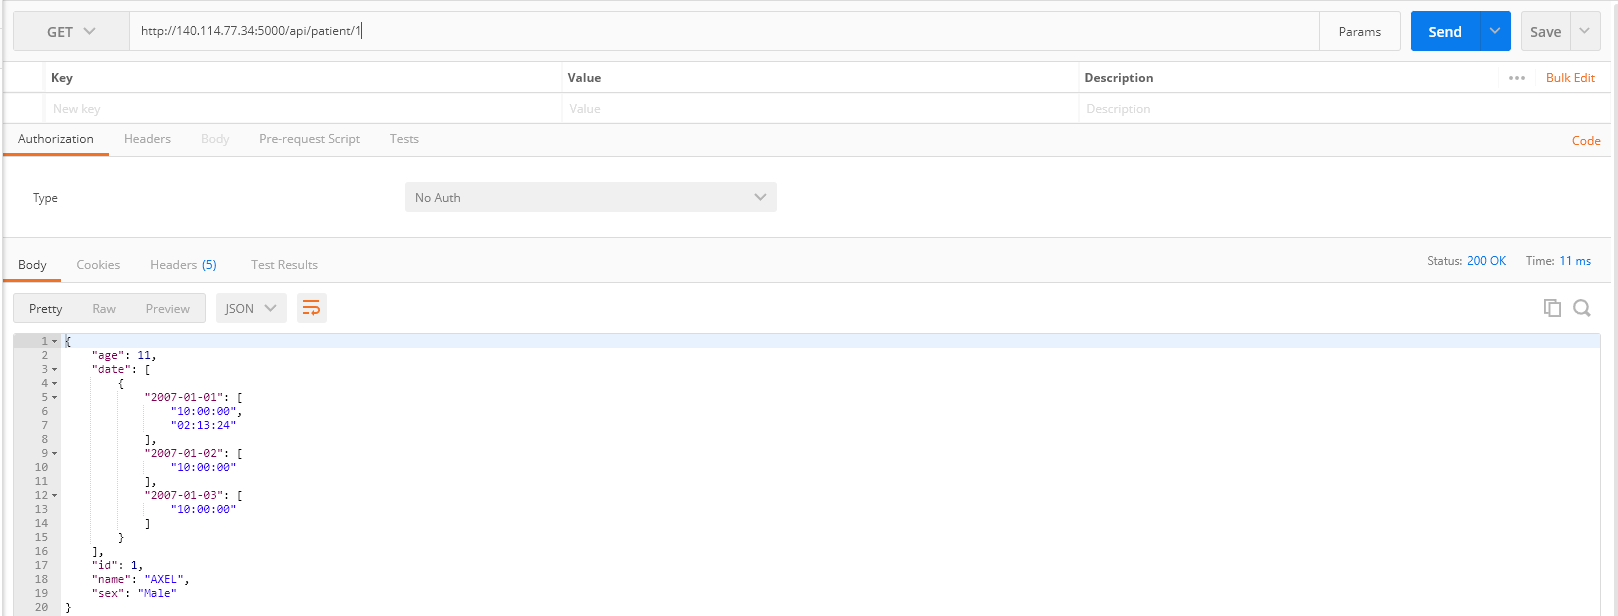
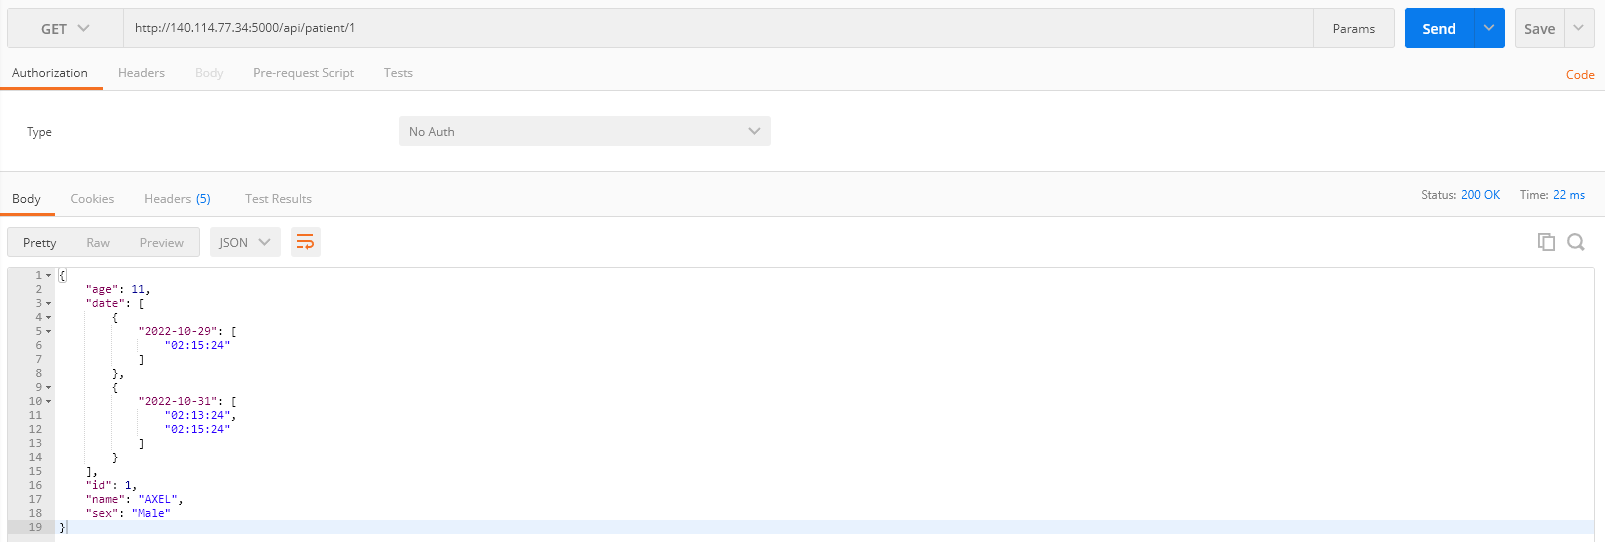
update API2

diff --git a/parse.py b/parse.py
@@ -13,22 +13,39 @@ def parse_patient_list(patient_rows):
     return patient_list
 
 
-def parse_patient(patient_rows):
+# def parse_patient(patient_rows):
+#     patient = {}
+#     patient['id'] = patient_rows[0][0]
+#     patient['name'] = patient_rows[0][1]
+#     patient['sex'] = patient_rows[0][2]
+#     patient['age'] = age(patient_rows[0][3])
+#     date_list = []
+#     temp = {}
+#     for row in patient_rows:
+#         date = row[4].split(' ')[0]
+#         if date not in temp.keys():
+#             temp[date] = []
+#         time = row[4].split(' ')[1]
+#         temp[date].append(time)
+#     date_list.append(temp)
+#     patient['date'] = date_list
+#     return patient
+
+def parse_patient(patient_rows, date_list):
     patient = {}
     patient['id'] = patient_rows[0][0]
     patient['name'] = patient_rows[0][1]
     patient['sex'] = patient_rows[0][2]
     patient['age'] = age(patient_rows[0][3])
-    date_list = []
-    temp = {}
+    date_value = []
+    for date in date_list:
+        temp = {"{}".format(date): []}
+        date_value.append(temp)
     for row in patient_rows:
         date = row[4].split(' ')[0]
-        if date not in temp.keys():
-            temp[date] = []
         time = row[4].split(' ')[1]
-        temp[date].append(time)
-    date_list.append(temp)
-    patient['date'] = date_list
+        date_value[date_list.index(date)][date].append(time)
+    patient['date'] = date_value
     return patient
 
 

diff --git a/connectdb.py b/connectdb.py
@@ -1,5 +1,7 @@
 import sqlite3
 
+from cv2 import sort
+
 
 class Database:
     def __init__(self):
@@ -23,6 +25,16 @@ class Database:
         for row in rows:
             print(row)
         return rows
+
+    def sql_fetch_distinct_date(self, patient_id):
+        date_list = []
+        self.cursorObj.execute(
+            'SELECT distinct(date(Date)) FROM Image WHERE PatientID={} ORDER BY Date;'.format(patient_id))
+        rows = self.cursorObj.fetchall()
+        self.con.commit()
+        for row in rows:
+            date_list.append(row[0])
+        return date_list
 
     def sql_fetch_images(self, patient_id, date, time):
         print(patient_id, date, time)

diff --git a/backend.py b/backend.py
@@ -28,7 +28,8 @@ def get_patient_list():
 def get_patient(id):
     patient_id = id
     patient_rows = db.sql_fetch_patient(patient_id)
-    patient_data = parse_patient(patient_rows)
+    date_list = db.sql_fetch_distinct_date(patient_id)
+    patient_data = parse_patient(patient_rows, date_list)
     return jsonify(patient_data)
 
 

diff --git a/Readme.md b/Readme.md
@@ -30,7 +30,10 @@ request: id
 response:
 {
     "age": int,
-    "date": [{date:[time, time, ...], date:[time, time, ...]}]
+    "date": [
+        {date:[time, time, ...]},
+        {date:[time, time, ...]},
+        {date:[time, time, ...]}]
     "name": str,
     "id": int,
     "sex": int
